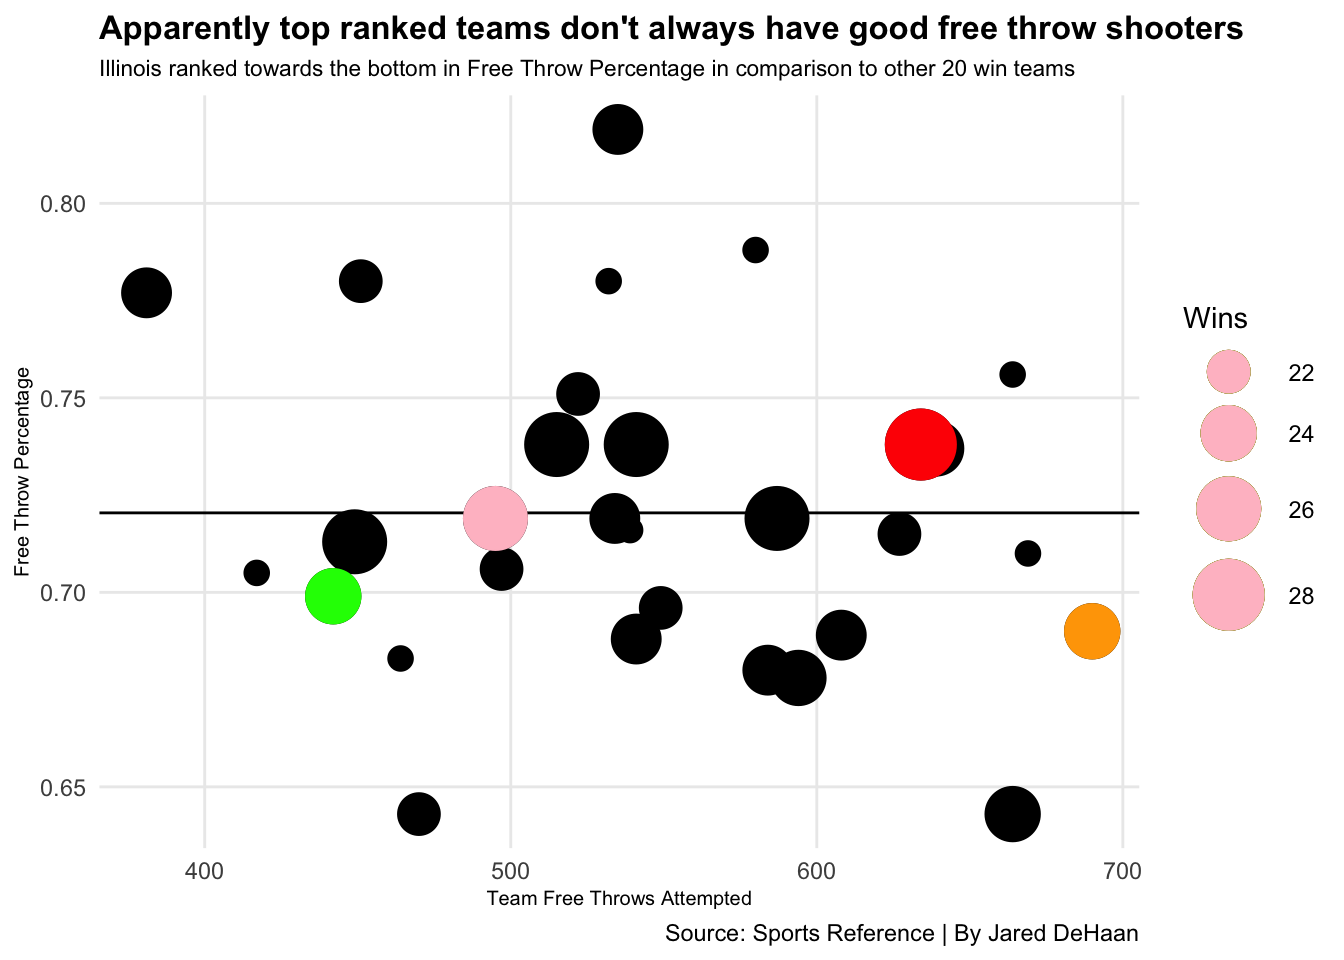
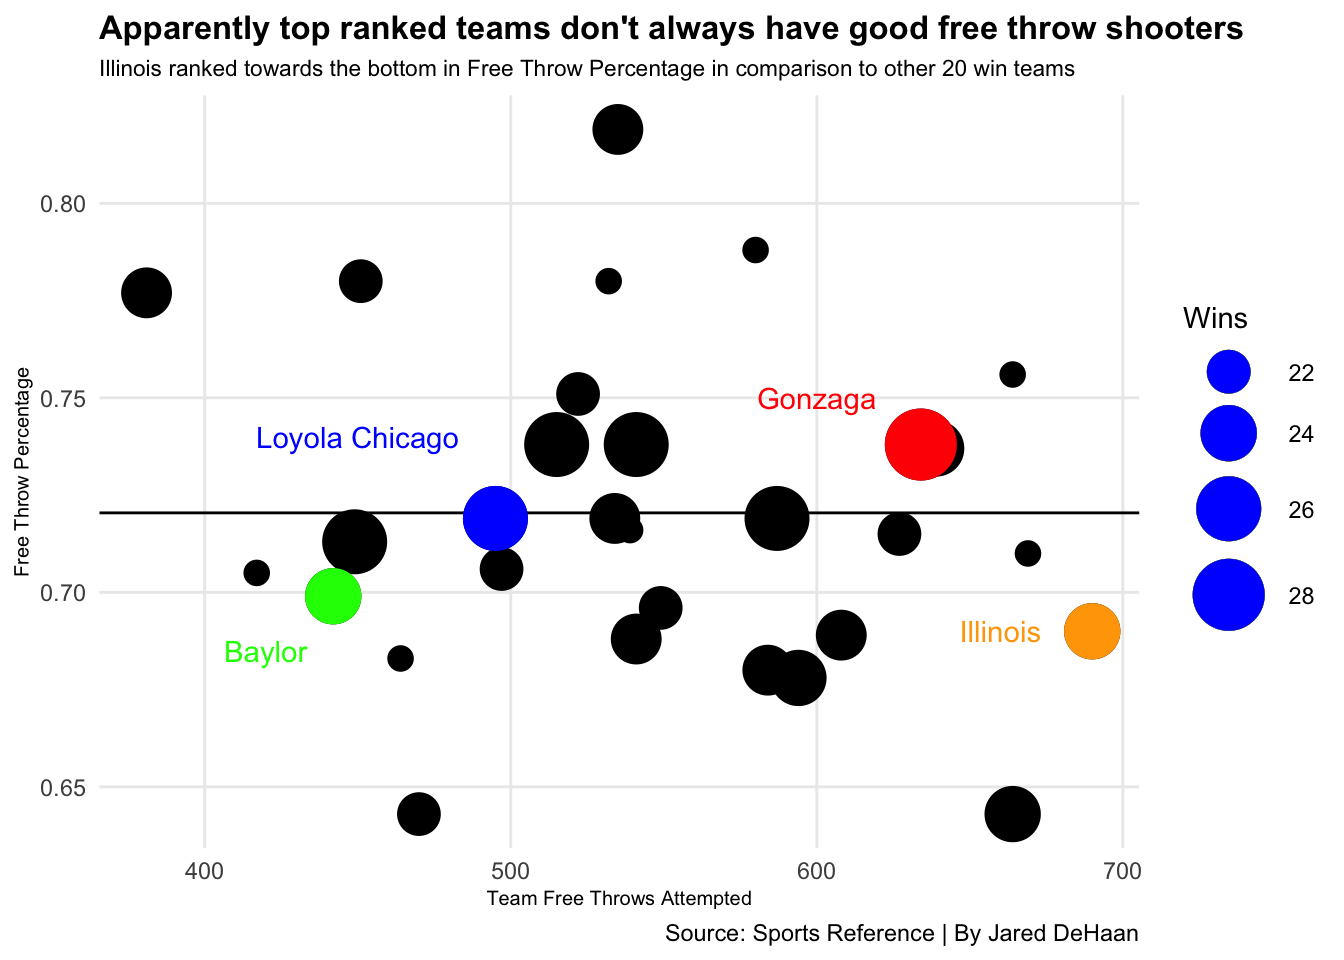
More updates

diff --git a/2021/03/27/illinois-missed-their-chance/index.html b/2021/03/27/illinois-missed-their-chance/index.html
@@ -151,7 +151,7 @@ avgtopergame &lt;- turnovers %&gt;% summarise(
 <pre class="r"><code>ggplot(turnovers, aes(x=`TurnoversForcedpergame`, y=`Turnoverspergame`)) +
   geom_vline(xintercept = 13.40379) +
   geom_hline(yintercept = 13.19193) +
-geom_point(color=&quot;black&quot;) + 
+geom_point(color=&quot;grey&quot;) + 
   labs(x=&quot;Turnovers Forced Per Game&quot;, y=&quot;Team Turnovers Per Game&quot;, title=&quot;Team turnovers and turnovers forced were not a strong suit for Illinois&quot;, subtitle=&quot;The Fighting Illini struggled to handle the ball and force their opponents to turn the ball over&quot;, caption=&quot;Source: Sports Reference | By Jared DeHaan&quot;) + 
   theme_minimal() + 
   theme(
@@ -166,8 +166,8 @@ geom_point(color=&quot;black&quot;) +
   geom_text_repel(data=zag, aes(x=`TurnoversForcedpergame`, y=`Turnoverspergame`, label=&quot;Gonzaga&quot;), color=&quot;red&quot;) +
   geom_point(data=bay, aes(x=`TurnoversForcedpergame`,y=`Turnoverspergame`), color=&quot;green&quot;) + 
   geom_text_repel(data=bay, aes(x=`TurnoversForcedpergame`, y=`Turnoverspergame`, label=&quot;Baylor&quot;), color=&quot;green&quot;) + 
-   geom_point(data=loy, aes(x=`TurnoversForcedpergame`,y=`Turnoverspergame`), color=&quot;pink&quot;) + 
-  geom_text_repel(data=loy, aes(x=`TurnoversForcedpergame`, y=`Turnoverspergame`, label=&quot;Loyola Chicago&quot;), color=&quot;pink&quot;) +
+   geom_point(data=loy, aes(x=`TurnoversForcedpergame`,y=`Turnoverspergame`), color=&quot;blue&quot;) + 
+  geom_text_repel(data=loy, aes(x=`TurnoversForcedpergame`, y=`Turnoverspergame`, label=&quot;Loyola Chicago&quot;), color=&quot;blue&quot;) +
   geom_text(aes(x=9.5, y=14, label=&quot;Bad TT, Bad TF&quot;)) +
   geom_text(aes(x=9.5, y=12.5, label=&quot;Good TT, Bad TF&quot;)) +
   geom_text(aes(x=18, y=14, label=&quot;Bad TT, Good TF&quot;)) +
@@ -186,10 +186,12 @@ loy &lt;- goodteams %&gt;% mutate(TeamFTPCT = `TeamFT%`) %&gt;%filter(School == 
 <pre class="r"><code>ggplot() + 
   geom_hline(yintercept = 0.7204333) +
   geom_point(data=goodteams, aes(x=TeamFTA, y=TeamFTPCT, size=OverallW.x)) +    
-  geom_point(data=ill, aes(x=TeamFTA, y=TeamFTPCT, size=OverallW.x), color=&quot;orange&quot;) +
-  geom_point(data=zag, aes(x=TeamFTA, y=TeamFTPCT, size=OverallW.x), color=&quot;red&quot;) + 
-  geom_point(data=bay, aes(x=TeamFTA, y=TeamFTPCT, size=OverallW.x), color=&quot;green&quot;)+ 
-  geom_point(data=loy, aes(x=TeamFTA, y=TeamFTPCT, size=OverallW.x), color=&quot;pink&quot;) +
+  geom_point(data=ill, aes(x=TeamFTA, y=TeamFTPCT, size=OverallW.x), color=&quot;orange&quot;) + geom_text(aes(x=660, y=.69, label=&quot;Illinois&quot;), color=&quot;orange&quot;) +
+  geom_point(data=zag, aes(x=TeamFTA, y=TeamFTPCT, size=OverallW.x), color=&quot;red&quot;) +  geom_text(aes(x=600, y=.75, label=&quot;Gonzaga&quot;), color=&quot;red&quot;) + 
+  geom_point(data=bay, aes(x=TeamFTA, y=TeamFTPCT, size=OverallW.x), color=&quot;green&quot;) +
+  geom_text(aes(x=420, y=.685, label=&quot;Baylor&quot;), color=&quot;green&quot;) +
+  geom_point(data=loy, aes(x=TeamFTA, y=TeamFTPCT, size=OverallW.x), color=&quot;blue&quot;) +
+   geom_text(aes(x=450, y=.74, label=&quot;Loyola Chicago&quot;), color=&quot;blue&quot;) +
   scale_size(range = c(4, 12), name=&quot;Wins&quot;) +
 labs(x=&quot;Team Free Throws Attempted&quot;, y=&quot;Free Throw Percentage&quot;, title=&quot;Apparently top ranked teams don&#39;t always have good free throw shooters&quot;, subtitle=&quot;Illinois ranked towards the bottom in Free Throw Percentage in comparison to other 20 win teams&quot;, caption=&quot;Source: Sports Reference | By Jared DeHaan&quot;) + 
   theme_minimal() +
@@ -212,7 +214,7 @@ loy &lt;- newstats %&gt;% filter(School == &quot;Loyola (IL)&quot;)</code></pre>
   geom_bar(data=ill, aes(x=reorder(School, `AstTOratio`), weight=`AstTOratio`), fill = &quot;orange&quot;) +
   geom_bar(data=zag, aes(x=reorder(School, `AstTOratio`), weight=`AstTOratio`), fill = &quot;red&quot;)  +
   geom_bar(data=bay, aes(x=reorder(School, `AstTOratio`), weight=`AstTOratio`), fill = &quot;green&quot;)  +
-  geom_bar(data=loy, aes(x=reorder(School, `AstTOratio`), weight=`AstTOratio`), fill = &quot;pink&quot;) +
+  geom_bar(data=loy, aes(x=reorder(School, `AstTOratio`), weight=`AstTOratio`), fill = &quot;blue&quot;) +
 labs(x=&quot;&quot;, y=&quot;Assist to Turnover Ratio&quot;, title=&quot;Illinois really doesn&#39;t impress on paper in these categories&quot;, subtitle=&quot;The Fighting Illini are behind Gonzaga, Baylor and Loyola in yet another category&quot;, caption=&quot;Source: Sports Reference | By Jared DeHaan&quot;) + 
   theme_minimal() + 
   theme(
